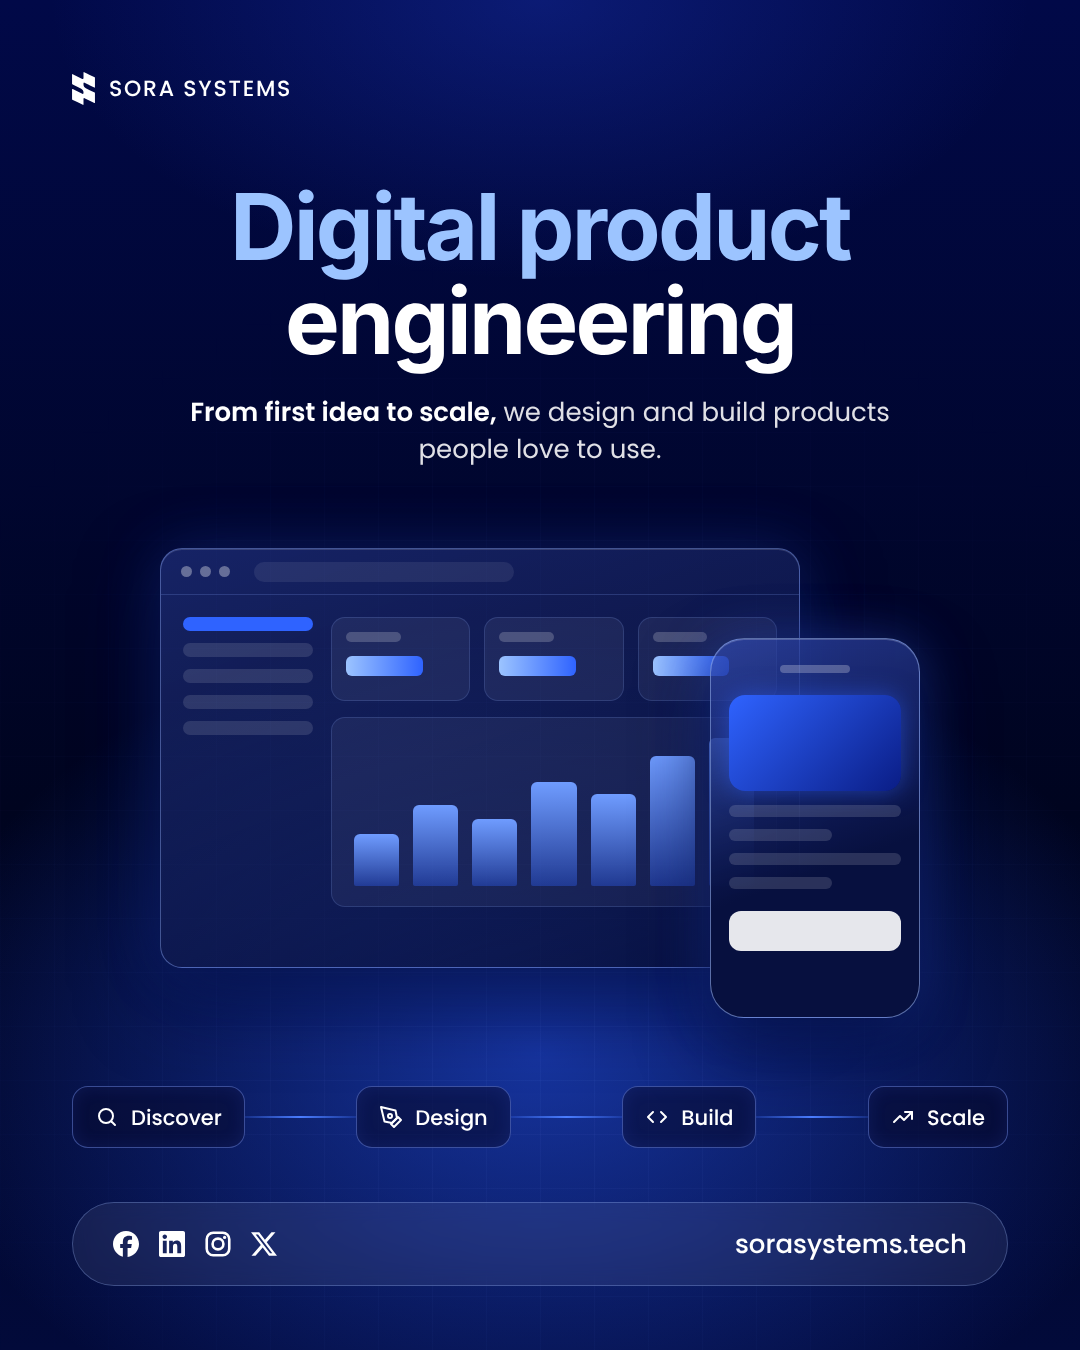
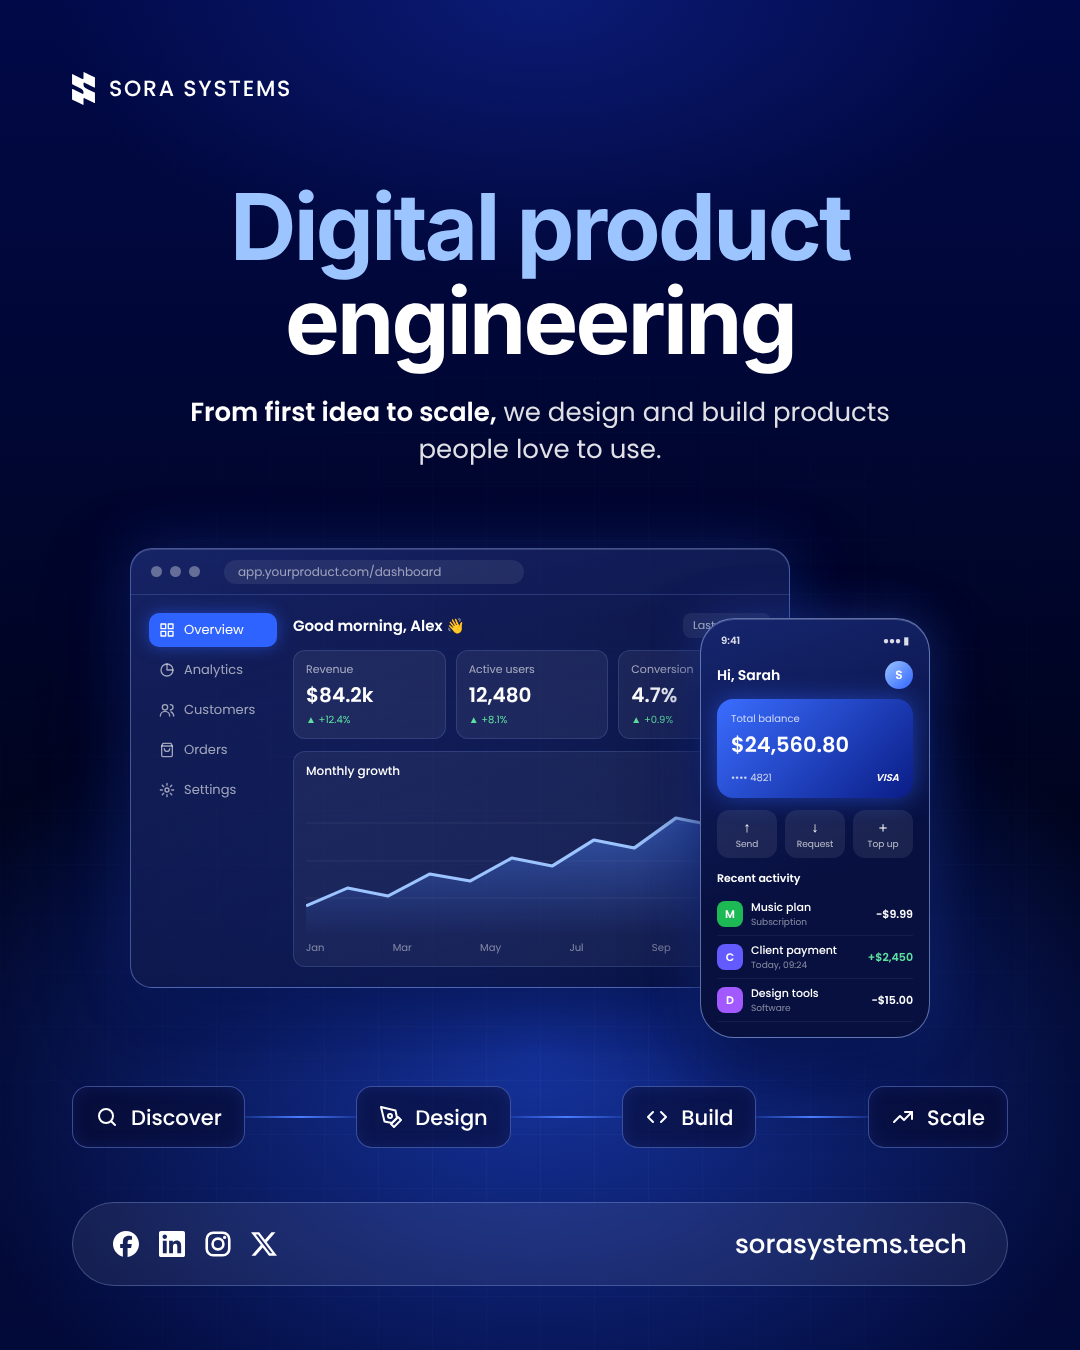
Digital Product post: realistic dashboard and mobile app UI in screens
Claude-Session: https://claude.ai/code/session_018LrWno3rUgkkNcDC2TDXLt

Changed region(s): [[0.1222, 0.4044, 0.8861, 0.7778], [0.4278, 0.4667, 0.55, 0.56]]

diff --git a/designs/digital-product/sora-digital-product.html b/designs/digital-product/sora-digital-product.html
@@ -13,22 +13,31 @@ h1{margin:0;font-family:"Helvetica Neue",Helvetica,Arial,sans-serif;font-weight:
 .sub{margin:26px auto 0;width:760px;font-size:26px;line-height:1.45;color:rgba(255,255,255,.88)}.sub b{font-weight:600;color:#fff}
 /* hero */
 .hero{position:absolute;left:50%;top:528px;width:900px;height:520px;transform:translateX(-50%)}
-.win{position:absolute;left:70px;top:20px;width:640px;height:420px;border-radius:22px;background:linear-gradient(160deg,rgba(40,60,150,.55),rgba(6,12,50,.8));border:1.5px solid rgba(140,170,255,.45);box-shadow:0 30px 80px rgba(0,10,60,.7),0 0 60px rgba(50,100,255,.25),inset 0 1px 0 rgba(255,255,255,.15)}
+.win{position:absolute;left:40px;top:20px;width:660px;height:440px;border-radius:22px;background:linear-gradient(160deg,rgba(40,60,150,.55),rgba(6,12,50,.8));border:1.5px solid rgba(140,170,255,.45);box-shadow:0 30px 80px rgba(0,10,60,.7),0 0 60px rgba(50,100,255,.25),inset 0 1px 0 rgba(255,255,255,.15)}
 .bar{height:46px;display:flex;align-items:center;gap:8px;padding:0 20px;border-bottom:1px solid rgba(140,170,255,.2)}
 .bar i{width:11px;height:11px;border-radius:50%;background:rgba(255,255,255,.35)}
-.bar b{margin-left:16px;flex:0 0 260px;height:20px;border-radius:10px;background:rgba(255,255,255,.08)}
-.body{display:flex;gap:18px;padding:22px}
-.side{width:130px;display:flex;flex-direction:column;gap:12px}.side i{height:14px;border-radius:7px;background:rgba(255,255,255,.12)}.side i:first-child{background:#2f63ff}
-.main{flex:1;display:flex;flex-direction:column;gap:16px}
-.kpis{display:flex;gap:14px}.kpi{flex:1;height:84px;border-radius:14px;background:rgba(255,255,255,.06);border:1px solid rgba(140,170,255,.18);padding:14px}
-.kpi i{display:block;width:50%;height:10px;border-radius:5px;background:rgba(255,255,255,.2)}.kpi b{display:block;margin-top:14px;width:70%;height:20px;border-radius:6px;background:linear-gradient(90deg,#9CC4FF,#2f63ff)}
-.chart{height:190px;border-radius:14px;background:rgba(255,255,255,.05);border:1px solid rgba(140,170,255,.18);display:flex;align-items:flex-end;gap:14px;padding:20px 22px}
-.chart i{flex:1;border-radius:6px 6px 2px 2px;background:linear-gradient(180deg,#6f9cff,rgba(47,99,255,.35))}
-.phone{position:absolute;right:70px;top:110px;width:210px;height:380px;border-radius:34px;background:linear-gradient(160deg,rgba(50,75,180,.7),#07103f 60%);border:1.5px solid rgba(160,190,255,.55);box-shadow:0 30px 70px rgba(0,10,60,.8),0 0 50px rgba(60,110,255,.35),inset 0 1px 0 rgba(255,255,255,.2);padding:26px 18px}
-.phone .notch{width:70px;height:8px;border-radius:4px;background:rgba(255,255,255,.25);margin:0 auto 22px}
-.phone .card{height:96px;border-radius:16px;background:linear-gradient(135deg,#2f63ff,#0a1d86);margin-bottom:14px;box-shadow:0 0 24px rgba(50,100,255,.5)}
-.phone .ln{height:12px;border-radius:6px;background:rgba(255,255,255,.14);margin-bottom:12px}.phone .ln.s{width:60%}
-.phone .btn{margin-top:22px;height:40px;border-radius:12px;background:#fff;opacity:.9}
+.bar b{margin-left:16px;flex:0 0 300px;height:24px;border-radius:12px;background:rgba(255,255,255,.08);font-weight:400;font-size:12px;line-height:24px;padding-left:14px;color:rgba(255,255,255,.55)}
+.body{display:flex;gap:16px;padding:18px}
+.side{width:128px;display:flex;flex-direction:column;gap:6px}
+.nv{display:flex;align-items:center;gap:9px;height:34px;padding:0 10px;border-radius:10px;font-size:13px;color:rgba(255,255,255,.6)}.nv svg{width:16px;height:16px}
+.nv.on{background:#2f63ff;color:#fff;box-shadow:0 0 16px rgba(47,99,255,.5)}
+.main{flex:1;display:flex;flex-direction:column;gap:12px}
+.hd{display:flex;justify-content:space-between;align-items:center;font-size:15px;font-weight:600}.hd em{font-style:normal;font-weight:400;font-size:11px;padding:4px 10px;border-radius:8px;background:rgba(255,255,255,.08);color:rgba(255,255,255,.7)}
+.kpis{display:flex;gap:10px}.kpi{flex:1;border-radius:12px;background:rgba(255,255,255,.06);border:1px solid rgba(140,170,255,.18);padding:10px 12px;display:flex;flex-direction:column;gap:2px}
+.kl{font-size:11px;color:rgba(255,255,255,.6)}.kv{font-size:20px;font-weight:600}.kd{font-size:10px;color:#5ee0a0}
+.chart{border-radius:12px;background:rgba(255,255,255,.05);border:1px solid rgba(140,170,255,.18);padding:10px 12px}
+.ch{display:flex;justify-content:space-between;font-size:12px;font-weight:500;margin-bottom:6px}.ch em{font-style:normal;color:rgba(255,255,255,.5);font-size:11px}
+.chart svg{width:100%;height:150px;display:block}
+.mo{display:flex;justify-content:space-between;font-size:10px;color:rgba(255,255,255,.45);margin-top:4px}
+.phone{position:absolute;right:60px;top:90px;width:230px;height:420px;border-radius:34px;background:linear-gradient(160deg,#16256e,#07103f 60%);border:1.5px solid rgba(160,190,255,.55);box-shadow:0 30px 70px rgba(0,10,60,.8),0 0 50px rgba(60,110,255,.35),inset 0 1px 0 rgba(255,255,255,.2);padding:14px 16px}
+.pt{display:flex;justify-content:space-between;font-size:10px;font-weight:600;color:rgba(255,255,255,.85);padding:0 4px}
+.ph{display:flex;justify-content:space-between;align-items:center;margin:12px 0 10px;font-size:14px;font-weight:600}.ph i{width:28px;height:28px;border-radius:50%;background:linear-gradient(135deg,#9CC4FF,#2f63ff);font-style:normal;font-size:12px;display:flex;align-items:center;justify-content:center}
+.card{border-radius:16px;padding:12px 14px;background:linear-gradient(135deg,#3a6dff,#0a1d86);box-shadow:0 0 24px rgba(50,100,255,.5);display:flex;flex-direction:column;gap:2px}
+.card span{font-size:10px;color:rgba(255,255,255,.75)}.card b{font-size:21px}.cr{display:flex;justify-content:space-between;margin-top:8px}.cr span:last-child{font-weight:700;font-style:italic;color:#fff}
+.acts{display:flex;gap:8px;margin:12px 0}.acts div{flex:1;height:48px;border-radius:12px;background:rgba(255,255,255,.08);display:flex;flex-direction:column;align-items:center;justify-content:center;font-size:14px}.acts span{font-size:9px;color:rgba(255,255,255,.7)}
+.tt{font-size:11px;font-weight:600;margin-bottom:6px}
+.tx{display:flex;align-items:center;gap:8px;padding:6px 0;border-bottom:1px solid rgba(255,255,255,.06)}.tx i{width:26px;height:26px;border-radius:8px;font-style:normal;font-size:11px;font-weight:700;display:flex;align-items:center;justify-content:center}
+.tx div{flex:1;display:flex;flex-direction:column}.tx b{font-size:11px;font-weight:500}.tx span{font-size:9px;color:rgba(255,255,255,.5)}.tx em{font-style:normal;font-size:11px;font-weight:600}.tx em.pos{color:#5ee0a0}
 /* process */
 .steps{position:absolute;left:72px;right:72px;top:1086px;display:flex;align-items:center}
 .step{display:flex;align-items:center;gap:12px;height:62px;padding:0 22px;border-radius:16px;border:1.5px solid rgba(120,150,255,.45);background:rgba(6,10,48,.6);box-shadow:inset 0 0 18px rgba(70,110,255,.12)}
@@ -37,13 +46,18 @@ h1{margin:0;font-family:"Helvetica Neue",Helvetica,Arial,sans-serif;font-weight:
 .foot{position:absolute;left:72px;right:72px;bottom:64px;height:84px;border-radius:42px;background:rgba(255,255,255,.07);border:1.5px solid rgba(160,190,255,.3);backdrop-filter:blur(10px);display:flex;align-items:center;justify-content:space-between;padding:0 40px}
 .social{display:flex;gap:20px}.social svg{width:26px;height:26px;display:block}
 .url{font-weight:500;font-size:26px}
-</style></head><body><div class="post">
+.win{overflow:hidden}</style></head><body><div class="post">
 <div class="grid"></div>
 <div class="brand"><svg viewBox="265.090 145.520 547.273 788.961" xmlns="http://www.w3.org/2000/svg"><path fill="#FFFFFF" d="M 812.363281 283.472656 L 812.363281 508.15625 C 812.363281 516.351562 803.769531 521.722656 796.410156 518.078125 L 681.371094 461.1875 L 675.542969 458.308594 L 562.761719 402.519531 C 562.753906 402.515625 562.746094 402.515625 562.738281 402.515625 C 562.730469 402.515625 562.71875 402.511719 562.710938 402.503906 C 561.292969 401.417969 559.660156 400.601562 557.917969 400.132812 C 557.910156 400.132812 557.902344 400.132812 557.894531 400.132812 C 557.886719 400.132812 557.875 400.128906 557.867188 400.128906 C 556.558594 399.71875 555.195312 399.527344 553.777344 399.527344 C 545.457031 399.527344 538.726562 406.269531 538.726562 414.601562 L 538.726562 443.640625 C 538.726562 481.675781 560.304688 516.417969 594.398438 533.277344 L 675.542969 573.40625 L 725.703125 598.207031 L 806.207031 638.027344 C 809.980469 639.890625 812.363281 643.726562 812.363281 647.945312 L 812.363281 878.113281 C 812.363281 886.304688 803.769531 891.675781 796.410156 888.03125 L 761.738281 870.878906 L 675.542969 828.265625 L 562.761719 772.476562 C 562.753906 772.472656 562.746094 772.46875 562.738281 772.46875 C 562.726562 772.46875 562.71875 772.46875 562.710938 772.464844 L 557.921875 770.09375 C 557.914062 770.089844 557.902344 770.085938 557.890625 770.085938 C 557.882812 770.085938 557.875 770.085938 557.871094 770.082031 C 556.558594 769.671875 555.195312 769.484375 553.777344 769.484375 C 545.457031 769.484375 538.726562 776.222656 538.726562 784.554688 L 538.726562 920.917969 C 538.726562 929.109375 530.132812 934.480469 522.773438 930.835938 L 401.972656 871.101562 C 401.933594 871.082031 401.90625 871.039062 401.90625 870.996094 C 401.90625 870.929688 401.855469 870.878906 401.789062 870.878906 L 401.621094 870.878906 C 401.574219 870.878906 401.53125 870.867188 401.492188 870.847656 L 271.246094 806.449219 C 267.46875 804.585938 265.089844 800.75 265.089844 796.53125 L 265.089844 560.882812 C 265.089844 552.691406 273.679688 547.320312 281.042969 550.964844 L 376.597656 598.207031 L 401.90625 610.730469 L 509.691406 664.03125 L 523.207031 670.71875 C 523.355469 670.789062 523.515625 670.828125 523.675781 670.828125 C 535.410156 670.828125 538.726562 656.273438 538.726562 644.539062 L 538.726562 633.625 C 538.726562 595.585938 517.148438 560.84375 483.054688 543.984375 L 401.90625 503.855469 L 315.65625 461.1875 L 271.246094 439.238281 C 267.46875 437.375 265.089844 433.535156 265.089844 429.316406 L 265.089844 207.371094 C 265.089844 199.179688 273.679688 193.808594 281.042969 197.453125 L 401.90625 257.21875 L 508.542969 309.945312 C 509.171875 310.246094 509.746094 310.65625 510.320312 311.070312 C 511.5 311.945312 512.8125 312.683594 514.179688 313.234375 C 514.425781 313.34375 514.671875 313.425781 514.917969 313.507812 C 515.246094 313.644531 515.628906 313.753906 515.988281 313.863281 C 516.316406 313.972656 516.671875 314.054688 517.027344 314.136719 C 518.285156 314.4375 519.597656 314.574219 520.9375 314.574219 C 530.761719 314.574219 538.726562 306.601562 538.726562 296.761719 L 538.726562 159.085938 C 538.726562 150.863281 547.316406 145.519531 554.679688 149.164062 L 631.515625 187.148438 L 675.542969 208.933594 L 806.207031 273.550781 C 809.980469 275.414062 812.363281 279.253906 812.363281 283.472656 Z M 812.363281 283.472656 "/></svg><span>SORA SYSTEMS</span></div>
 <div class="copy"><h1><span class="accent">Digital product</span><br>engineering</h1>
 <p class="sub"><b>From first idea to scale,</b> we design and build products people love to use.</p></div>
-<div class="hero"><div class="win"><div class="bar"><i></i><i></i><i></i><b></b></div><div class="body"><div class="side"><i></i><i></i><i></i><i></i><i></i></div><div class="main"><div class="kpis"><div class="kpi"><i></i><b></b></div><div class="kpi"><i></i><b></b></div><div class="kpi"><i></i><b></b></div></div><div class="chart"><i style="height:35%"></i><i style="height:55%"></i><i style="height:45%"></i><i style="height:70%"></i><i style="height:62%"></i><i style="height:88%"></i><i style="height:100%"></i></div></div></div></div>
-<div class="phone"><div class="notch"></div><div class="card"></div><div class="ln"></div><div class="ln s"></div><div class="ln"></div><div class="ln s"></div><div class="btn"></div></div></div>
+<div class="hero"><div class="win"><div class="bar"><i></i><i></i><i></i><b>app.yourproduct.com/dashboard</b></div><div class="body"><div class="side"><div class="nv on"><svg viewBox="0 0 24 24" fill="none" stroke="currentColor" stroke-width="2" stroke-linecap="round" stroke-linejoin="round"><path d="M3 3h7v7H3zM14 3h7v7h-7zM3 14h7v7H3zM14 14h7v7h-7z"/></svg><span>Overview</span></div><div class="nv"><svg viewBox="0 0 24 24" fill="none" stroke="currentColor" stroke-width="2" stroke-linecap="round" stroke-linejoin="round"><path d="M21 12A9 9 0 1 1 12 3"/><path d="M12 3a9 9 0 0 1 9 9h-9z"/></svg><span>Analytics</span></div><div class="nv"><svg viewBox="0 0 24 24" fill="none" stroke="currentColor" stroke-width="2" stroke-linecap="round" stroke-linejoin="round"><circle cx="9" cy="8" r="4"/><path d="M2 21a7 7 0 0 1 14 0M17 4a4 4 0 0 1 0 8M22 21a7 7 0 0 0-4-6.3"/></svg><span>Customers</span></div><div class="nv"><svg viewBox="0 0 24 24" fill="none" stroke="currentColor" stroke-width="2" stroke-linecap="round" stroke-linejoin="round"><path d="M6 2l-2 4v14a2 2 0 0 0 2 2h12a2 2 0 0 0 2-2V6l-2-4z"/><path d="M4 6h16M16 10a4 4 0 0 1-8 0"/></svg><span>Orders</span></div><div class="nv"><svg viewBox="0 0 24 24" fill="none" stroke="currentColor" stroke-width="2" stroke-linecap="round" stroke-linejoin="round"><circle cx="12" cy="12" r="3"/><path d="M12 2v3M12 19v3M2 12h3M19 12h3M4.9 4.9l2.1 2.1M17 17l2.1 2.1M4.9 19.1L7 17M17 7l2.1-2.1"/></svg><span>Settings</span></div></div><div class="main"><div class="hd"><span>Good morning, Alex 👋</span><em>Last 30 days</em></div><div class="kpis"><div class="kpi"><span class="kl">Revenue</span><span class="kv">$84.2k</span><span class="kd">▲ +12.4%</span></div><div class="kpi"><span class="kl">Active users</span><span class="kv">12,480</span><span class="kd">▲ +8.1%</span></div><div class="kpi"><span class="kl">Conversion</span><span class="kv">4.7%</span><span class="kd">▲ +0.9%</span></div></div><div class="chart"><div class="ch"><span>Monthly growth</span><em>2026</em></div>
+<svg viewBox="0 0 380 150" preserveAspectRatio="none"><defs><linearGradient id="g" x1="0" y1="0" x2="0" y2="1"><stop offset="0" stop-color="#4f86ff" stop-opacity=".55"/><stop offset="1" stop-color="#4f86ff" stop-opacity="0"/></linearGradient></defs>
+<g stroke="rgba(255,255,255,.07)"><path d="M0 37h380M0 75h380M0 112h380"/></g><path d="M0 120 L35 102 L69 110 L104 88 L138 95 L173 72 L207 80 L242 54 L276 62 L311 32 L345 40 L380 18 L380 150 L0 150 Z" fill="url(#g)"/><path d="M0 120 L35 102 L69 110 L104 88 L138 95 L173 72 L207 80 L242 54 L276 62 L311 32 L345 40 L380 18" fill="none" stroke="#9CC4FF" stroke-width="3" stroke-linejoin="round"/><circle cx="380" cy="18" r="6" fill="#fff" stroke="#2f63ff" stroke-width="3"/></svg>
+<div class="mo"><span>Jan</span><span>Mar</span><span>May</span><span>Jul</span><span>Sep</span><span>Nov</span></div></div></div></div></div><div class="phone"><div class="pt"><span>9:41</span><span>●●● ▮</span></div><div class="ph"><span>Hi, Sarah</span><i>S</i></div>
+<div class="card"><span>Total balance</span><b>$24,560.80</b><div class="cr"><span>•••• 4821</span><span>VISA</span></div></div>
+<div class="acts"><div>↑<span>Send</span></div><div>↓<span>Request</span></div><div>＋<span>Top up</span></div></div>
+<div class="tt">Recent activity</div><div class="tx"><i style="background:#1db954">M</i><div><b>Music plan</b><span>Subscription</span></div><em class="">−$9.99</em></div><div class="tx"><i style="background:#635bff">C</i><div><b>Client payment</b><span>Today, 09:24</span></div><em class="pos">+$2,450</em></div><div class="tx"><i style="background:#a259ff">D</i><div><b>Design tools</b><span>Software</span></div><em class="">−$15.00</em></div></div></div>
 <div class="steps"><div class="step"><svg viewBox="0 0 24 24" fill="none" stroke="#fff" stroke-width="2" stroke-linecap="round" stroke-linejoin="round"><circle cx="11" cy="11" r="7"/><path d="M20 20l-3.5-3.5"/></svg><span>Discover</span></div><i class="ar"></i><div class="step"><svg viewBox="0 0 24 24" fill="none" stroke="#fff" stroke-width="2" stroke-linecap="round" stroke-linejoin="round"><path d="M12 19l7-7 3 3-7 7-3-3z"/><path d="M18 13l-1.5-7.5L2 2l3.5 14.5L13 18l5-5z"/><circle cx="11" cy="11" r="2"/></svg><span>Design</span></div><i class="ar"></i><div class="step"><svg viewBox="0 0 24 24" fill="none" stroke="#fff" stroke-width="2" stroke-linecap="round" stroke-linejoin="round"><path d="M8 7l-5 5 5 5M16 7l5 5-5 5"/></svg><span>Build</span></div><i class="ar"></i><div class="step"><svg viewBox="0 0 24 24" fill="none" stroke="#fff" stroke-width="2" stroke-linecap="round" stroke-linejoin="round"><path d="M3 17l6-6 4 4 8-8"/><path d="M14 7h7v7"/></svg><span>Scale</span></div></div>
 <div class="foot"><div class="social">
     <svg viewBox="0 0 24 24" aria-label="Facebook"><path fill="#fff" d="M9.101 23.691v-7.98H6.627v-3.667h2.474v-1.58c0-4.085 1.848-5.978 5.858-5.978.401 0 .955.042 1.468.103a8.68 8.68 0 0 1 1.141.195v3.325a8.623 8.623 0 0 0-.653-.036 26.805 26.805 0 0 0-.733-.009c-.707 0-1.259.096-1.675.309a1.686 1.686 0 0 0-.679.622c-.258.42-.374.995-.374 1.752v1.297h3.919l-.386 2.103-.287 1.564h-3.246v8.245C19.396 23.238 24 18.179 24 12.044c0-6.627-5.373-12-12-12s-12 5.373-12 12c0 5.628 3.874 10.35 9.101 11.647Z"/></svg>
